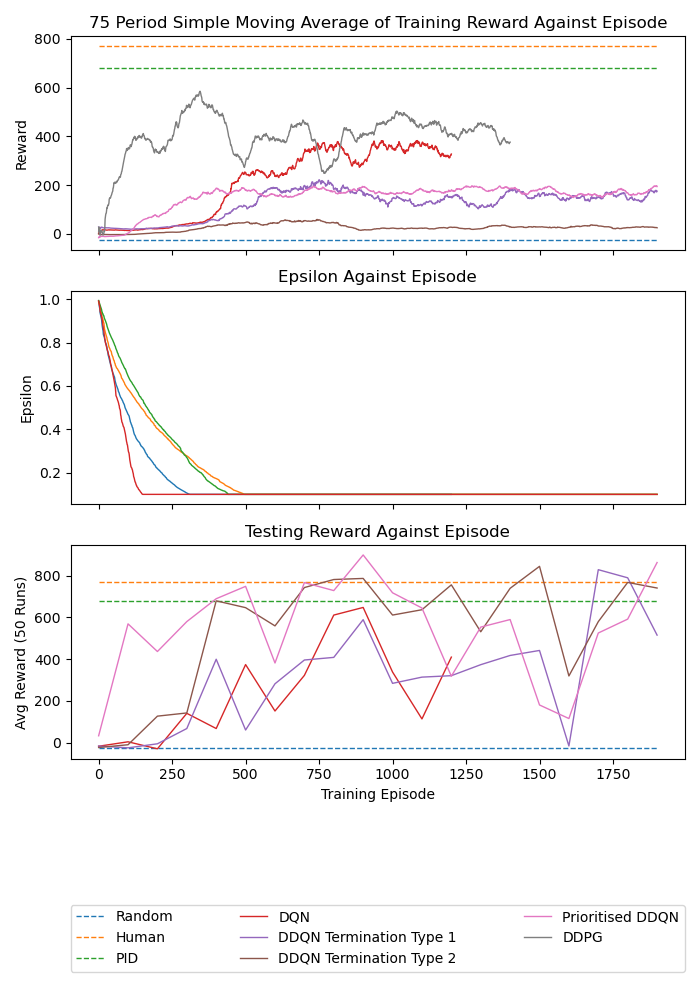
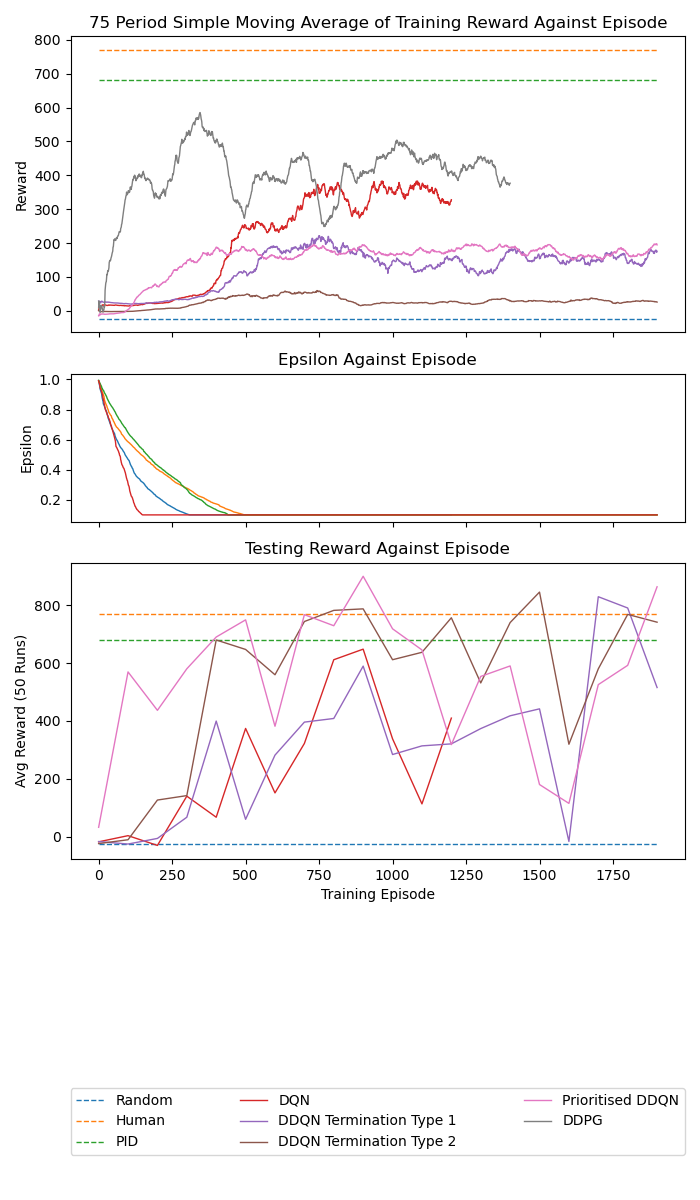
better scaling for plots

diff --git a/DDQN/plot_results.py b/DDQN/plot_results.py
@@ -19,7 +19,7 @@ def simple_moving_avg( data, ticks=75 ):
 def plotResults( filepaths ):
     """Plot results from csv files which were saved from training."""
     # Create two subplots sharing y axis
-    fig, (ax1, ax2, ax3) = plt.subplots(3, sharex=True)
+    fig, (ax1, ax2, ax3) = plt.subplots(3, sharex=True, gridspec_kw={'height_ratios': [2, 1, 2]})
 
     # plot random agent, human and PID on ax1 and ax3
     x = [0, 1900]
@@ -61,7 +61,7 @@ def plotResults( filepaths ):
     
     ax3.set(title=f'Testing Reward Against Episode', xlabel='Training Episode', ylabel='Avg Reward (50 Runs)')
     ax3.legend( labels, bbox_to_anchor=(0,-1,1,1), loc="lower left", mode="expand", borderaxespad=0, ncol=3)
-    fig.set_size_inches(7,10)
+    fig.set_size_inches(7,12)
     fig.tight_layout()  # add padding between figs
     # plt.show()
     plt.savefig('imgs/results.png')
